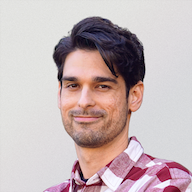
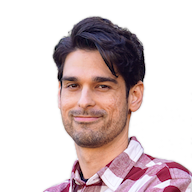
Update colors and spaces

diff --git a/index.html b/index.html
@@ -18,11 +18,11 @@
 
     <header>
       <div class="profile">
-        <img src="img/profile-picture-1.png" alt="profile picture">
+        <img src="img/profile-picture-5.png" alt="profile picture">
   
           <div class="profile__info">
             <h1><span>Eduardo Motta de Oliveira</span></h1>
-            <p><span><strong>Software Developer 🇧🇷🇺🇸</strong></span></p>
+            <h2>Software Developer</h2>
             <p>Sacramento, CA</p>
 
             
@@ -40,13 +40,13 @@
     </header>
 
     <section>
-
-      <h2>Professional Experience</h2>
+      <h2>Professional Apps</h2>
 
       <a class="section__item" href="picpay.html">
         <img src="img/picpay-icon.jpg" alt="PicPay app icon"/>
         <div class="section__item__text">
           <h3>PicPay</h3>
+          <p>I developed various features for PicPay, a popular Brazilian payment app.</p>
           <ul class="feature-tags">
             <li>Swift</li>
             <li>Objective-C</li>
@@ -56,19 +56,19 @@
             <li>Push notifications</li>
             <li>API integration</li>
           </ul>
-          <p>I developed various features for PicPay, a popular Brazilian payment app.
-          </p>
+          
         </div>
       </a>
     </section>
 
       <section>
-      <h2>Personal Projects</h2>
+      <h2>Personal Apps</h2>
 
       <a class="section__item" href="pick-lottery.html">
         <img src="img/picklottery-icon.png" alt="Pick Lottery app icon"/>
         <div class="section__item__text">
           <h3>PickLottery</h3>
+          <p>Randomly select items from custom lists. Allows to balance results, avoiding repetition.</p>
           <ul class="feature-tags">
             <li>Swift</li>
             <li>SwiftUI</li>
@@ -76,8 +76,6 @@
             <li>MVVM</li>
             <li>XCTest</li>
           </ul>
-          <p>Randomly select items from custom lists. Allows to balance results, avoiding repetition.</p>
-          
         </div>
       </a>
 
@@ -85,13 +83,13 @@
         <img src="img/wordsearch-icon.png" alt="Word Search app icon"/>
         <div class="section__item__text">
           <h3>WordSearch</h3>
+          <p>Classical word search game with procedural board creation.
           <ul class="feature-tags">
             <li>Swift</li>
             <li>SwiftUI</li>
             <li>MVVM</li>
             <li>XCTest</li>
           </ul>
-          <p>Classical word search game with procedural board creation.
           </p>
         </div>
       </a>
@@ -100,14 +98,12 @@
         <img src="img/checkpoint-icon.png" alt="Check Point app icon"/>
         <div class="section__item__text">
           <h3>Checkpoint</h3>
+          <p>Web app to manage participant attendance in activities or events.</p>
           <ul class="feature-tags">
             <li>Typescript</li>
             <li>React</li>
             <li>Next.js</li>
           </ul>
-          
-          <p>Web app to manage participant attendance in activities or events.</p>
-          
         </div>
       </a>
 
@@ -115,11 +111,11 @@
         <img src="img/20hints-icon.png" alt="20 hints app icon"/>
         <div class="section__item__text">
           <h3>20 hints</h3>
+          <p>Guessing game built for Web and Mobile using React Native.</p>
           <ul class="feature-tags">
             <li>Typescript</li>
             <li>React Native</li>
           </ul>
-          <p>Guessing game built with React Native for Web and Mobile.</p>
         </div>
       </a>
 
@@ -127,13 +123,13 @@
         <img src="img/super-recipes.png" alt="Super Recipes app icon"/>
         <div class="section__item__text">
           <h3>SuperRecipes</h3>
+          <p>iOS Recipe app with API service written in GO.</p>
           <ul class="feature-tags">
             <li>Swift</li>
             <li>Golang</li>
             <li>API integration</li>
             <li>UIKit</li>
           </ul>
-          <p>iOS Recipe app with API service written in GO.</p>
         </div>
       </a>
     </section>

diff --git a/style.css b/style.css
@@ -1,4 +1,4 @@
-h1 {
+h1, h2 {
   padding: 0;
   margin: 0;
 }
@@ -18,12 +18,12 @@ hr {
 }
 
 img, video {
-  border: 1px solid rgba(0, 0, 0, 0.1);
-  box-shadow: 0 4px 30px rgba(0, 0, 0, 0.1);
+  box-shadow: 1px 2px 4px #7f7f7f;
+  border: none;
 }
 
 body {
-  font-family: 'Garamond', sans-serif;
+  font-family: 'Helvetica', 'Tahoma', sans-serif;
   font-optical-sizing: auto;
   font-size: medium;
   /* animation: fadein 1s; */
@@ -37,12 +37,9 @@ main {
 }
 
 header {
-  border: 4px solid rgba(0, 0, 0, 0.1);
-  /* background-color: #ffffff74; */
-  /* box-shadow: 0 2px 2px rgba(0, 0, 0, 0.1);*/
-  border-radius: 8px; 
-  padding: 8px;
+  padding: 16px 0px 0px 0px;
 }
+  
 
 section {
     margin-bottom: 24px;
@@ -111,18 +108,31 @@ section {
   align-items: center;
   text-align: left;
   gap: 24px;
-  margin: 16px;
+  background-color: #095941;
+  color: white;
+  box-shadow: 1px 2px 4px #cdcdcd;
+  border-radius: 8px; 
+  padding: 16px;
 }
 
 .profile h1,p {
+  font-weight: 200;
   overflow: hidden;
+}
+
+.profile h2 {
+  font-weight: 600;
+  font-size: 24px;
 }
 
 .profile img {
   width: 100px;
   height: 100px;
-  border-radius: 12%;
+  border-radius: 50%;
   border: none;
+  box-shadow: none;
+  /* box-shadow: 1px 2px 4px #7f7f7f; */
+  border: 4px rgb(250, 250, 250) double;
 }
 
 .profile__info p {
@@ -141,7 +151,7 @@ section {
 .profile__tags li {
   font-family: 'Garamond', sans-serif;
   font-size: small;
-  padding: 4px 4px 0px 0px;
+  padding: 8px 4px 0px 0px;
   /* border-right: solid 1px black; */
   list-style-type: none;
 }
@@ -153,8 +163,7 @@ section {
 /*---------- PROJECTS SECTION ----------*/
 
 section h2 {
-  padding-left: 0px;
-  padding-top: 16px;
+  padding: 24px 0px 16px 0px;
 }
 
 section a {
@@ -175,7 +184,6 @@ section img {
   width: 48px;
   height: 48px;
   border-radius: 8px;
-  box-shadow: 0 4px 30px rgba(0, 0, 0, 0.1);
 }
 
 .section__item__text h3 {
@@ -226,8 +234,9 @@ a:hover h3::after {
 .section__list {
   column-count: 3;
   column-gap: 20px;
-  padding: 8px 8px 8px 8px;
+  padding: 0px 8px 0px 8px;
   list-style-type: none;
+  margin: 0;
 }
 
 .section__list li {
